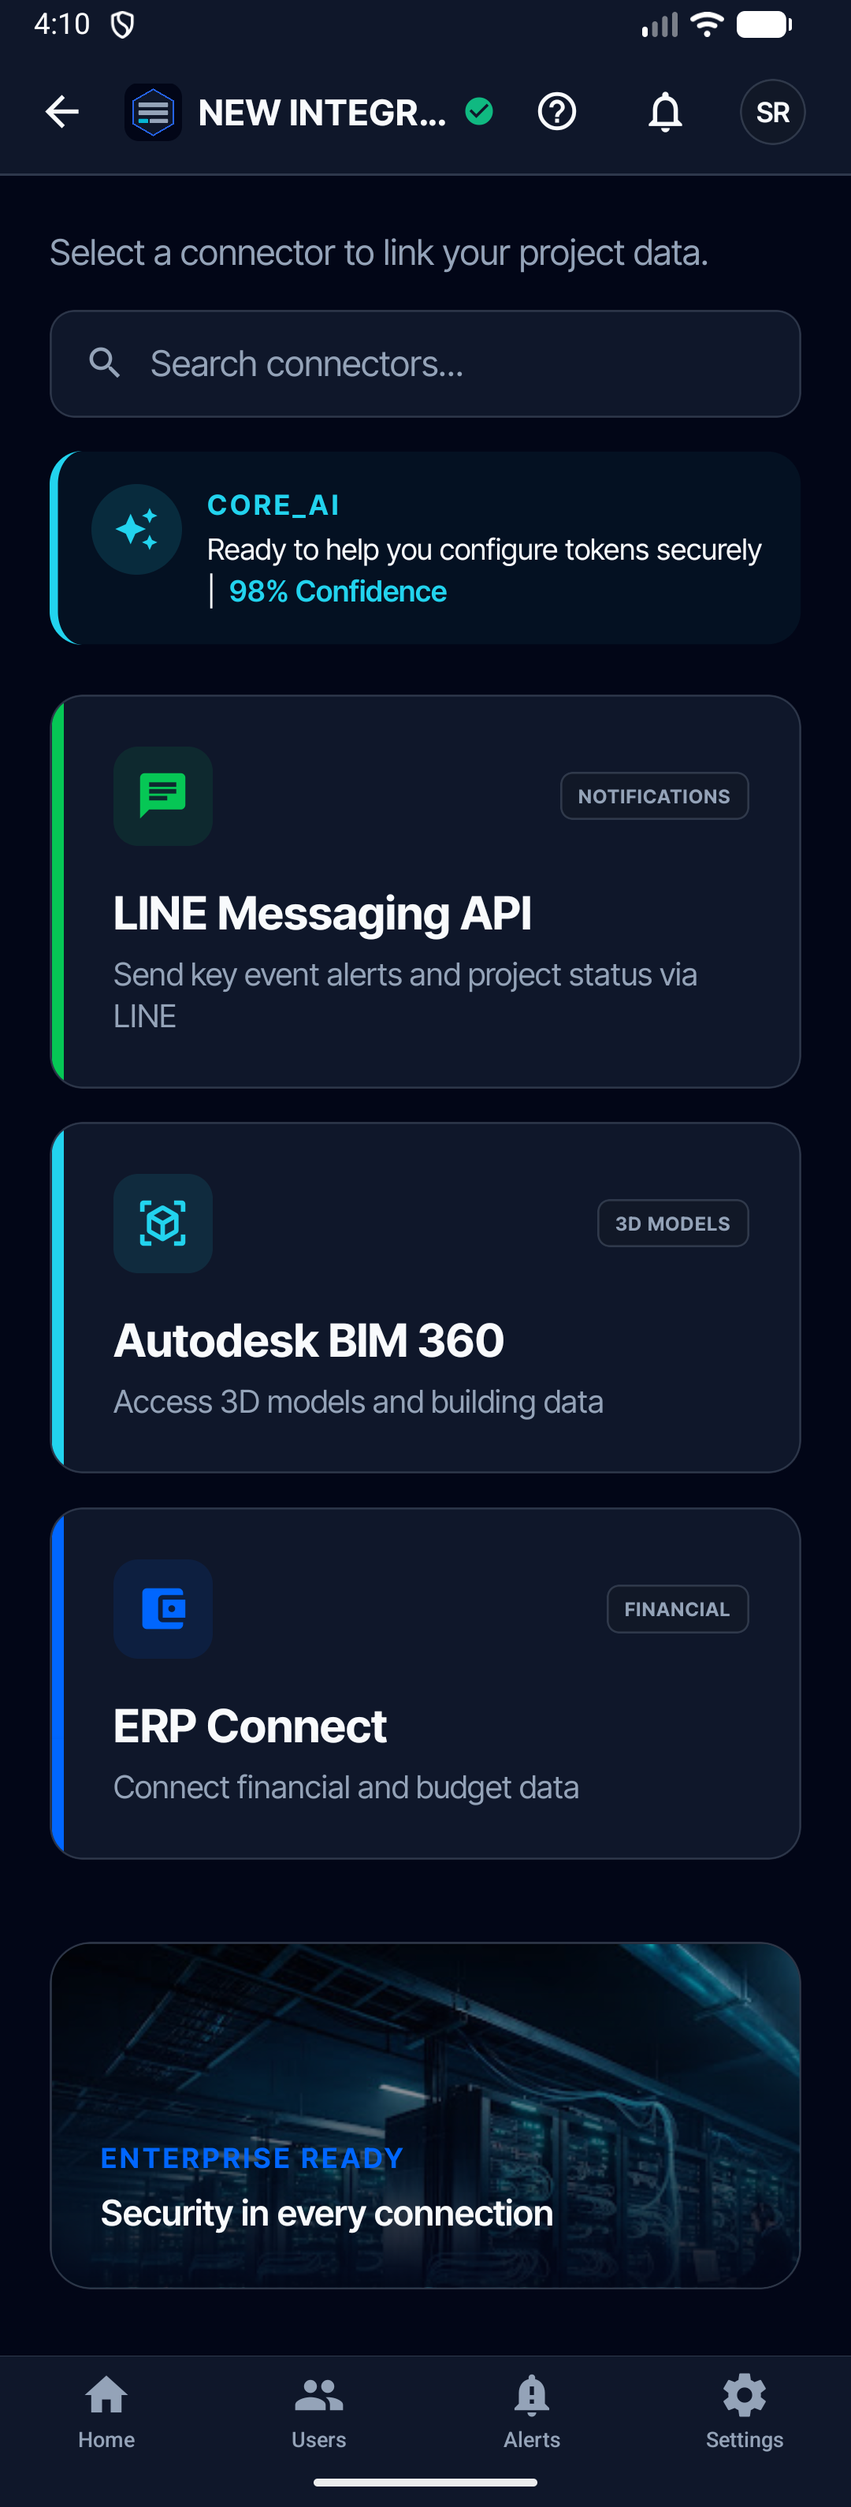
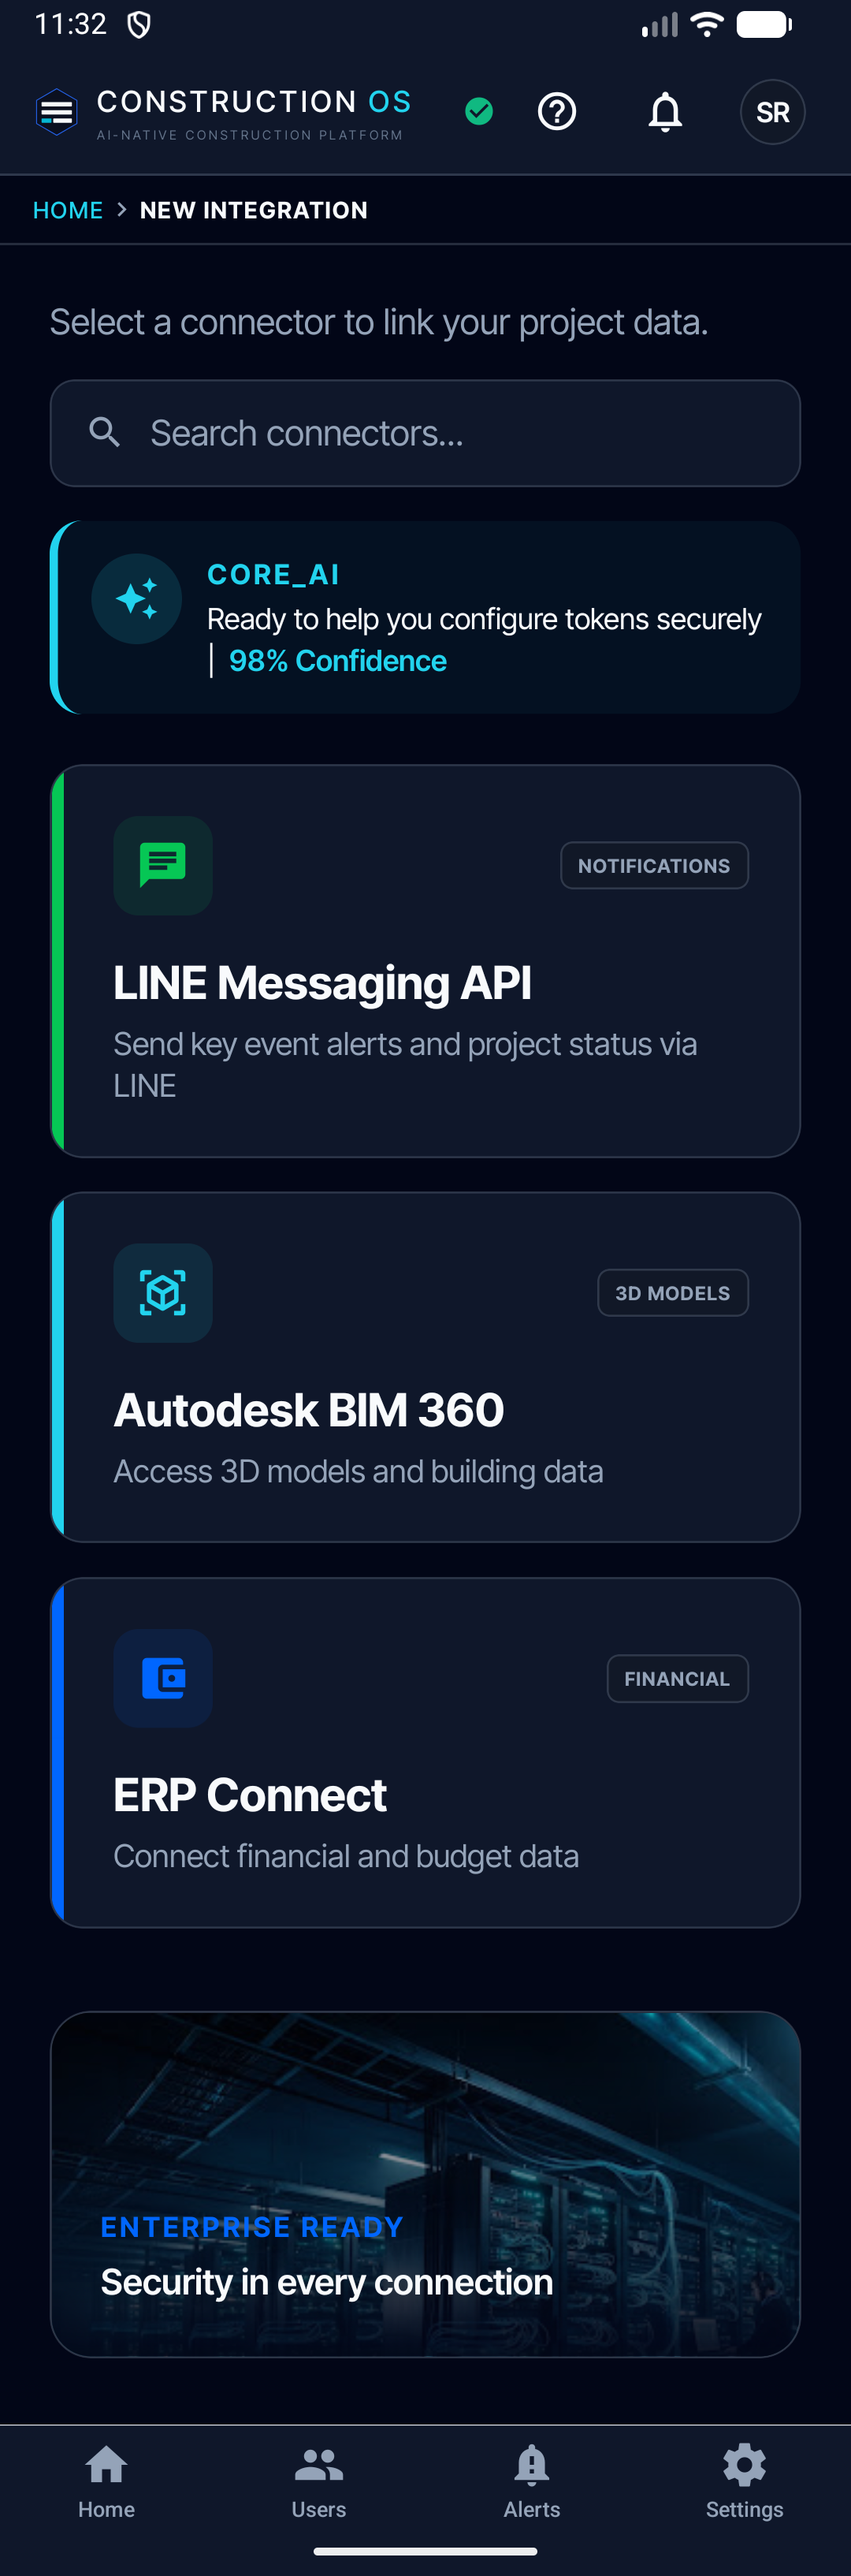
feat(mobile): uniform BrandLogo top bar + crisp native-splash wordmark

diff --git a/apps/mobile/src/components/TopBar.tsx b/apps/mobile/src/components/TopBar.tsx
@@ -6,62 +6,31 @@
 // same way the bottom nav does, and the safe-area strip above it takes the same surface colour.
 
 import { useEffect, useState } from 'react';
-import { View, Text, Image, TouchableOpacity, StyleSheet, Alert } from 'react-native';
-import { useRouter, usePathname } from 'expo-router';
+import { View, Text, TouchableOpacity, StyleSheet, Alert } from 'react-native';
+import { useRouter } from 'expo-router';
 import { MaterialIcons } from '@expo/vector-icons';
 import { useSafeAreaInsets } from 'react-native-safe-area-context';
-import appIcon from '../../assets/icon.png';
+import { BrandLogo } from './BrandLogo';
 import { Avatar } from './Avatar';
 import { SyncPill } from './SyncPill';
-import { ALL_TABS } from './MobileNav';
 import { listNotifications, unreadCount } from '../api/notifications';
 import { useUiStore } from '../store/uiStore';
 import { useAuthStore } from '../store/authStore';
 import { CosRole } from '@cos/types';
 import { useT } from '../i18n';
-import { colors, darkColors, fontFamily, spacing, touchTarget, typography } from '../theme/tokens';
+import { colors, darkColors, fontFamily, spacing, touchTarget } from '../theme/tokens';
 
-// The bar shows the CONSTRUCTION OS wordmark on EVERY screen (PO decision 2026-07-31, reverting the
-// 2026-07-29 "child screens show their title in the bar" rule). Pushed child screens additionally get a
-// Back arrow here and a clickable breadcrumb below the bar (components/Breadcrumb) that carries the screen
-// context + navigation. A route is a "child" when it is registered below — the same set that gets a Back
-// affordance and a breadcrumb; main bottom-nav tabs (see ALL_TABS) get neither.
-const CHILD_ROUTES: Record<string, true> = {
-  '/invite-user': true,
-  '/role-permissions': true,
-  '/roles-selection': true,
-  '/system-integration': true,
-  '/apps-services': true,
-  '/user-profile': true,
-  '/edit-permission': true,
-  '/reset-password': true,
-  '/notifications': true,
-  '/notification-preferences': true,
-  '/mfa-enrollment': true,
-  '/material-request': true,
-  '/conflict-review': true,
-  '/profile': true,
-};
-
+// The bar shows one uniform CONSTRUCTION OS logo on EVERY screen (PO decisions 2026-07-31): the wordmark
+// logo doubles as the drawer trigger, and pushed child screens navigate via the clickable breadcrumb below
+// the bar (components/Breadcrumb) — there is no Back arrow.
 export function TopBar({ variant = 'light' }: { variant?: 'light' | 'dark' }) {
   const router = useRouter();
-  const pathname = usePathname();
   const insets = useSafeAreaInsets();
   const t = useT();
   const openDrawer = useUiStore((s) => s.openDrawer);
   const role = useAuthStore((s) => s.role);
   const [unread, setUnread] = useState(0);
   const dark = variant === 'dark';
-
-  // A route is "main" (→ wordmark, drawer trigger) when it is one of the current role's bottom-nav tabs;
-  // anything else that has a registered title is a "child" (→ screen title + Back arrow). Unknown
-  // non-tab routes fall back to the wordmark rather than an empty bar.
-  const routeName = pathname.replace(/^\/+/, '');
-  const isMainTab =
-    routeName === '' ||
-    ALL_TABS.some((tab) => tab.name === routeName && role != null && tab.roles.includes(role));
-  // Child routes get a Back arrow (+ a breadcrumb below the bar); the wordmark is shown either way.
-  const showBack = !isMainTab && CHILD_ROUTES[pathname] === true;
 
   useEffect(() => {
     listNotifications()
@@ -82,45 +51,23 @@ export function TopBar({ variant = 'light' }: { variant?: 'light' | 'dark' }) {
       ]}
     >
       <View style={styles.brand}>
-        {showBack ? (
-          // Pushed detail routes: a Back arrow is the left anchor (the brand icon is dropped here so the
-          // wordmark + the right-hand actions never crowd on the narrower child bar).
-          <TouchableOpacity
-            testID="topbar-back"
-            accessibilityRole="button"
-            accessibilityLabel={t('common.back')}
-            style={styles.menuButton}
-            onPress={() => router.back()}
-          >
-            <MaterialIcons name="arrow-back" size={24} color={fg} />
-          </TouchableOpacity>
-        ) : (
-          // No hamburger — the brand icon itself is the drawer trigger (§32.7 Standard Top Bar:
-          // Left = "App icon + CONSTRUCTION OS wordmark"; the icon carries the menu affordance).
-          <TouchableOpacity
-            testID="drawer-menu-button"
-            accessibilityRole="button"
-            accessibilityLabel={t('drawer.open')}
-            style={styles.menuButton}
-            onPress={openDrawer}
-          >
-            <Image
-              testID="brand-logo"
-              source={appIcon}
-              style={styles.brandIcon}
-              resizeMode="contain"
-            />
-          </TouchableOpacity>
-        )}
-        {/* The CONSTRUCTION OS wordmark on every screen (PO 2026-07-31); child context lives in the
-            breadcrumb below the bar. */}
-        <Text style={[styles.appName, { color: colors.primary }]} numberOfLines={1}>
-          {t('common.appName')}
-        </Text>
+        {/* One uniform CONSTRUCTION OS logo on EVERY screen (crisp vector mark + native wordmark + tagline),
+            doubling as the drawer trigger. There is no Back arrow — pushed child screens navigate via the
+            clickable breadcrumb below the bar (PO 2026-07-31). */}
+        <TouchableOpacity
+          testID="drawer-menu-button"
+          accessibilityRole="button"
+          accessibilityLabel={t('drawer.open')}
+          onPress={openDrawer}
+        >
+          <View testID="brand-logo">
+            <BrandLogo variant={variant} height={26} />
+          </View>
+        </TouchableOpacity>
       </View>
       <View style={styles.actions}>
-        {/* Sync-status pill (mockup 01_home_dashboard) — Tenant Admin only: its dark shell drops the
-            full-width SyncStatusBar, so the pill is this role's sync indicator. */}
+        {/* Sync-status pill (mockup 01_home_dashboard) — Tenant Admin only (its dark shell drops the
+            full-width SyncStatusBar, so the pill is this role's sync indicator). */}
         {role === CosRole.TENANT_ADMIN ? <SyncPill /> : null}
         {/* Standard Help "?" — on every authenticated screen, beside the bell (PO decision 2026-07-29).
             There is no in-app help centre yet, so it opens an honest "coming soon" note rather than a
@@ -165,26 +112,9 @@ const styles = StyleSheet.create({
   },
   barDark: { backgroundColor: darkColors.surface, borderBottomColor: darkColors.border },
   barLight: { backgroundColor: colors.surface, borderBottomColor: colors.textSecondary },
-  // flex:1 + minWidth:0 lets a long screen title shrink and ellipsize instead of pushing the right-hand
+  // flex:1 + minWidth:0 keeps the logo left-aligned and lets it shrink rather than pushing the right-hand
   // actions (sync pill / help / bell / avatar) off-screen.
-  brand: { flexDirection: 'row', alignItems: 'center', gap: spacing.xs, flex: 1, minWidth: 0 },
-  menuButton: {
-    minWidth: touchTarget.iconButton,
-    minHeight: touchTarget.iconButton,
-    marginLeft: -spacing.xs,
-    alignItems: 'center',
-    justifyContent: 'center',
-  },
-  // Rounded-square tile (≈26% radius) for a crisp, professional enterprise-tool look (Linear/Palantir
-  // aesthetic — PO decision 2026-07-29). overflow:hidden so the dark icon art clips to the rounded corners.
-  brandIcon: { width: 28, height: 28, borderRadius: 7, overflow: 'hidden' },
-  appName: {
-    flexShrink: 1,
-    fontSize: typography.caption.fontSize,
-    fontFamily: fontFamily.bold,
-    letterSpacing: 0.5,
-    textTransform: 'uppercase',
-  },
+  brand: { flexDirection: 'row', alignItems: 'center', flex: 1, minWidth: 0 },
   actions: { flexDirection: 'row', alignItems: 'center', gap: spacing.xs },
   bell: {
     minWidth: touchTarget.iconButton,

diff --git a/apps/mobile/src/components/BrandLogo.tsx b/apps/mobile/src/components/BrandLogo.tsx
@@ -1,0 +1,78 @@
+// BrandLogo — the CONSTRUCTION OS wordmark, rendered crisp at any size: the hexagon mark is a vector
+// (react-native-svg) and the wordmark + tagline are native <Text> (Inter Tight), so nothing is a scaled
+// raster. Geometry + colours are taken verbatim from assets/cos_logo/construction_os_logo_final.html.
+//
+// `variant` follows the shell it sits on: 'dark' → light-text logo (dark shell), 'light' → dark-text
+// logo (light shell). `showTagline` adds the "AI-NATIVE CONSTRUCTION PLATFORM" line (drop it where the
+// bar is too short for it to read).
+
+import { View, Text, StyleSheet } from 'react-native';
+import Svg, { Polygon, Rect } from 'react-native-svg';
+import { fontFamily } from '../theme/tokens';
+
+// Hexagon mark palette (construction_os_logo_final.html). Both variants carry the concept's #2563EB
+// (System blue) border — the doc puts it on the light-shell mark + the "Dark" app-icon variant.
+const MARK = {
+  dark: { poly: '#0B1020', stroke: '#2563EB', bar: '#F8FAFC', accent: '#06B6D4' },
+  light: { poly: '#0F172A', stroke: '#2563EB', bar: '#94A3B8', accent: '#06B6D4' },
+};
+// Wordmark / tagline colours. The dark-shell tagline is lifted from the doc's #475569 to #64748B so it
+// stays legible on the top-bar surface (#0F172A) rather than the doc's near-black backdrop (#020617).
+const TEXT = {
+  dark: { main: '#F8FAFC', os: '#22D3EE', tag: '#64748B' },
+  light: { main: '#0B1020', os: '#2563EB', tag: '#64748B' },
+};
+
+export function BrandLogo({
+  variant = 'light',
+  height = 26,
+  showTagline = true,
+}: {
+  variant?: 'light' | 'dark';
+  height?: number;
+  showTagline?: boolean;
+}) {
+  const onDark = variant === 'dark';
+  const m = onDark ? MARK.dark : MARK.light;
+  const c = onDark ? TEXT.dark : TEXT.light;
+  const markW = Math.round((height * 80) / 92); // mark viewBox is 80×92
+  const wmSize = Math.round(height * 0.54); // wordmark scales with the logo height
+
+  return (
+    <View style={styles.row}>
+      <Svg width={markW} height={height} viewBox="0 0 80 92">
+        <Polygon
+          points="40,6 74.64,26 74.64,66 40,86 5.36,66 5.36,26"
+          fill={m.poly}
+          stroke={m.stroke}
+          strokeWidth={m.stroke != null ? 1.5 : 0}
+        />
+        <Rect x="14" y="29" width="52" height="7.5" rx="1" fill={m.bar} />
+        <Rect x="14" y="43" width="52" height="7.5" rx="1" fill={m.bar} />
+        <Rect x="14" y="57" width="17" height="7.5" rx="1" fill={m.accent} />
+        <Rect x="34" y="57" width="32" height="7.5" rx="1" fill={m.bar} />
+      </Svg>
+      <View style={styles.textCol}>
+        <Text style={[styles.wm, { fontSize: wmSize }]} numberOfLines={1}>
+          <Text style={{ color: c.main }}>CONSTRUCTION</Text>
+          <Text style={{ color: c.os }}> OS</Text>
+        </Text>
+        {showTagline ? (
+          <Text
+            style={[styles.tg, { color: c.tag, fontSize: Math.max(6, Math.round(height * 0.24)) }]}
+            numberOfLines={1}
+          >
+            AI-NATIVE CONSTRUCTION PLATFORM
+          </Text>
+        ) : null}
+      </View>
+    </View>
+  );
+}
+
+const styles = StyleSheet.create({
+  row: { flexDirection: 'row', alignItems: 'center', gap: 8 },
+  textCol: { justifyContent: 'center' },
+  wm: { fontFamily: fontFamily.medium, letterSpacing: 1.6, lineHeight: undefined },
+  tg: { fontFamily: fontFamily.regular, letterSpacing: 1.4, marginTop: 2 },
+});

diff --git a/apps/mobile/src/components/QuickAddMenu.tsx b/apps/mobile/src/components/QuickAddMenu.tsx
@@ -36,7 +36,7 @@ import { getMyProjects } from '../api/projects';
 import { checkBackendHealth } from '../api/health';
 import { useSyncStatus } from '../hooks/useSyncStatus';
 import { usePendingCount } from '../hooks/usePendingCount';
-import appIcon from '../../assets/icon.png';
+import { BrandLogo } from './BrandLogo';
 // Bento-tile background photos (PO decision 2026-07-29).
 import activeProjectsBg from '../../assets/tenant-admin/digital_archectural_blueprint.jpg';
 import systemHealthBg from '../../assets/tenant-admin/micro_server.jpg';
@@ -141,8 +141,7 @@ export function QuickAddMenu({
         {/* Top bar */}
         <View style={styles.topbar}>
           <View style={styles.brand}>
-            <Image source={appIcon} style={styles.brandIcon} resizeMode="contain" />
-            <Text style={styles.wordmark}>CONSTRUCTION OS</Text>
+            <BrandLogo variant="dark" height={26} />
           </View>
           <View style={styles.topRight}>
             <StatusPill />
@@ -159,8 +158,8 @@ export function QuickAddMenu({
         </View>
 
         <ScrollView contentContainerStyle={styles.content} keyboardShouldPersistTaps="handled">
-          {/* Header */}
-          <Text style={styles.title}>{t('quickAdd.title')}</Text>
+          {/* Header (the "Quick Commands" title was removed per PO 2026-07-31 — the wordmark above
+              already identifies the overlay; the subtitle carries the instruction). */}
           <Text style={styles.subtitle}>{t('quickAdd.subtitle')}</Text>
 
           {/* Action cards */}
@@ -356,12 +355,6 @@ const styles = StyleSheet.create({
   },
 
   content: { paddingHorizontal: spacing.lg, paddingTop: spacing.lg, paddingBottom: spacing.xl },
-  title: {
-    fontFamily: fontFamily.bold,
-    fontSize: typography.hero.fontSize,
-    lineHeight: typography.hero.lineHeight,
-    color: darkColors.text,
-  },
   subtitle: {
     fontFamily: fontFamily.regular,
     fontSize: typography.body.fontSize,

diff --git a/apps/mobile/src/app/(app)/user-profile.tsx b/apps/mobile/src/app/(app)/user-profile.tsx
@@ -108,7 +108,7 @@ export default function UserProfileScreen(): React.JSX.Element {
 
   return (
     <View style={styles.root} testID="user-profile">
-      <ScrollView contentContainerStyle={styles.content}>
+      <ScrollView style={styles.scroll} contentContainerStyle={styles.content}>
         {/* Hero */}
         <View style={styles.hero}>
           <View style={styles.avatarWrap}>
@@ -265,7 +265,8 @@ export default function UserProfileScreen(): React.JSX.Element {
 
 const styles = StyleSheet.create({
   root: { flex: 1, backgroundColor: darkColors.bg },
-  content: { padding: spacing.lg, paddingBottom: 200, gap: spacing.md },
+  scroll: { flex: 1 },
+  content: { padding: spacing.lg, paddingBottom: spacing.md, gap: spacing.md },
 
   hero: {
     alignItems: 'center',
@@ -425,10 +426,6 @@ const styles = StyleSheet.create({
   projectBadgeText: { fontFamily: fontFamily.bold, fontSize: 10, letterSpacing: 0.5 },
 
   footer: {
-    position: 'absolute',
-    left: 0,
-    right: 0,
-    bottom: 0,
     padding: spacing.lg,
     gap: spacing.sm,
     backgroundColor: darkColors.surface,

diff --git a/apps/mobile/src/app/(app)/invitation-success.tsx b/apps/mobile/src/app/(app)/invitation-success.tsx
@@ -143,6 +143,7 @@ const styles = StyleSheet.create({
   heading: {
     fontFamily: fontFamily.bold,
     fontSize: typography.hero.fontSize,
+    textTransform: 'uppercase',
     color: darkColors.text,
     textAlign: 'center',
     marginBottom: spacing.sm,

diff --git a/apps/mobile/src/app/(app)/permission-success.tsx b/apps/mobile/src/app/(app)/permission-success.tsx
@@ -96,6 +96,7 @@ const styles = StyleSheet.create({
   heading: {
     fontFamily: fontFamily.bold,
     fontSize: typography.hero.fontSize,
+    textTransform: 'uppercase',
     color: darkColors.text,
     textAlign: 'center',
     marginBottom: spacing.sm,

diff --git a/apps/mobile/src/app/(app)/reset-password-email-success.tsx b/apps/mobile/src/app/(app)/reset-password-email-success.tsx
@@ -79,6 +79,7 @@ const styles = StyleSheet.create({
   heading: {
     fontFamily: fontFamily.bold,
     fontSize: typography.hero.fontSize,
+    textTransform: 'uppercase',
     color: darkColors.text,
     textAlign: 'center',
     marginBottom: spacing.sm,

diff --git a/apps/mobile/src/app/(app)/reset-password-success.tsx b/apps/mobile/src/app/(app)/reset-password-success.tsx
@@ -128,6 +128,7 @@ const styles = StyleSheet.create({
   heading: {
     fontFamily: fontFamily.bold,
     fontSize: typography.hero.fontSize,
+    textTransform: 'uppercase',
     color: darkColors.text,
     textAlign: 'center',
   },

diff --git a/docs/screens/android/README.md b/docs/screens/android/README.md
@@ -179,7 +179,7 @@ Captured by [`apps/mobile/scripts/capture-android-tenant-admin-home.mjs`](../../
 (`node scripts/capture-android-tenant-admin-home.mjs`) — adb/uiautomator only. It asserts the
 `tenant-admin-home` landing testID and then the `admin-system-status` card before saving, so a mis-tap or
 an unrendered dashboard fails the run instead of writing the wrong screenshot; it then opens the FAB's
-Quick-Add menu (`TENANT_ADMIN/01-Home/02-quick-action.png`) and the Users tab
+Quick-Add menu (`TENANT_ADMIN/01-Home/01-quick-action.png`) and the Users tab
 (`TENANT_ADMIN/02-Users/01-users-dashboard.png`).
 
 ## Tenant Admin — Users — [`00`](TENANT_ADMIN/02-Users/01-users-dashboard.png) · [`actions`](TENANT_ADMIN/02-Users/02-users-more.png) · [`profile`](TENANT_ADMIN/02-Users/03-user-profile.png) · [`edit`](TENANT_ADMIN/02-Users/04-edit-permission.png) · [`success`](TENANT_ADMIN/02-Users/05-success-permission.png) · [`reset`](TENANT_ADMIN/02-Users/06-reset-password.png) · [`temp-done`](TENANT_ADMIN/02-Users/07-temp-password-create.png) · [`link-sent`](TENANT_ADMIN/02-Users/08-reset-link-sent.png)
@@ -345,7 +345,7 @@ Reached via `router.replace` — terminal, wordmark TopBar, no Back.
   truthful audit fact (`identity.user.password_reset.v1`, `method: email_link`).
 - **Return to user list** → `router.replace('/users')`.
 
-## Tenant Admin — Quick-Add menu — [`TENANT_ADMIN/01-Home/02-quick-action.png`](TENANT_ADMIN/01-Home/02-quick-action.png)
+## Tenant Admin — Quick-Add menu — [`TENANT_ADMIN/01-Home/01-quick-action.png`](TENANT_ADMIN/01-Home/01-quick-action.png)
 
 The FAB's full-screen **Quick Commands** overlay
 ([`components/QuickAddMenu.tsx`](../../../apps/mobile/src/components/QuickAddMenu.tsx), mockup
